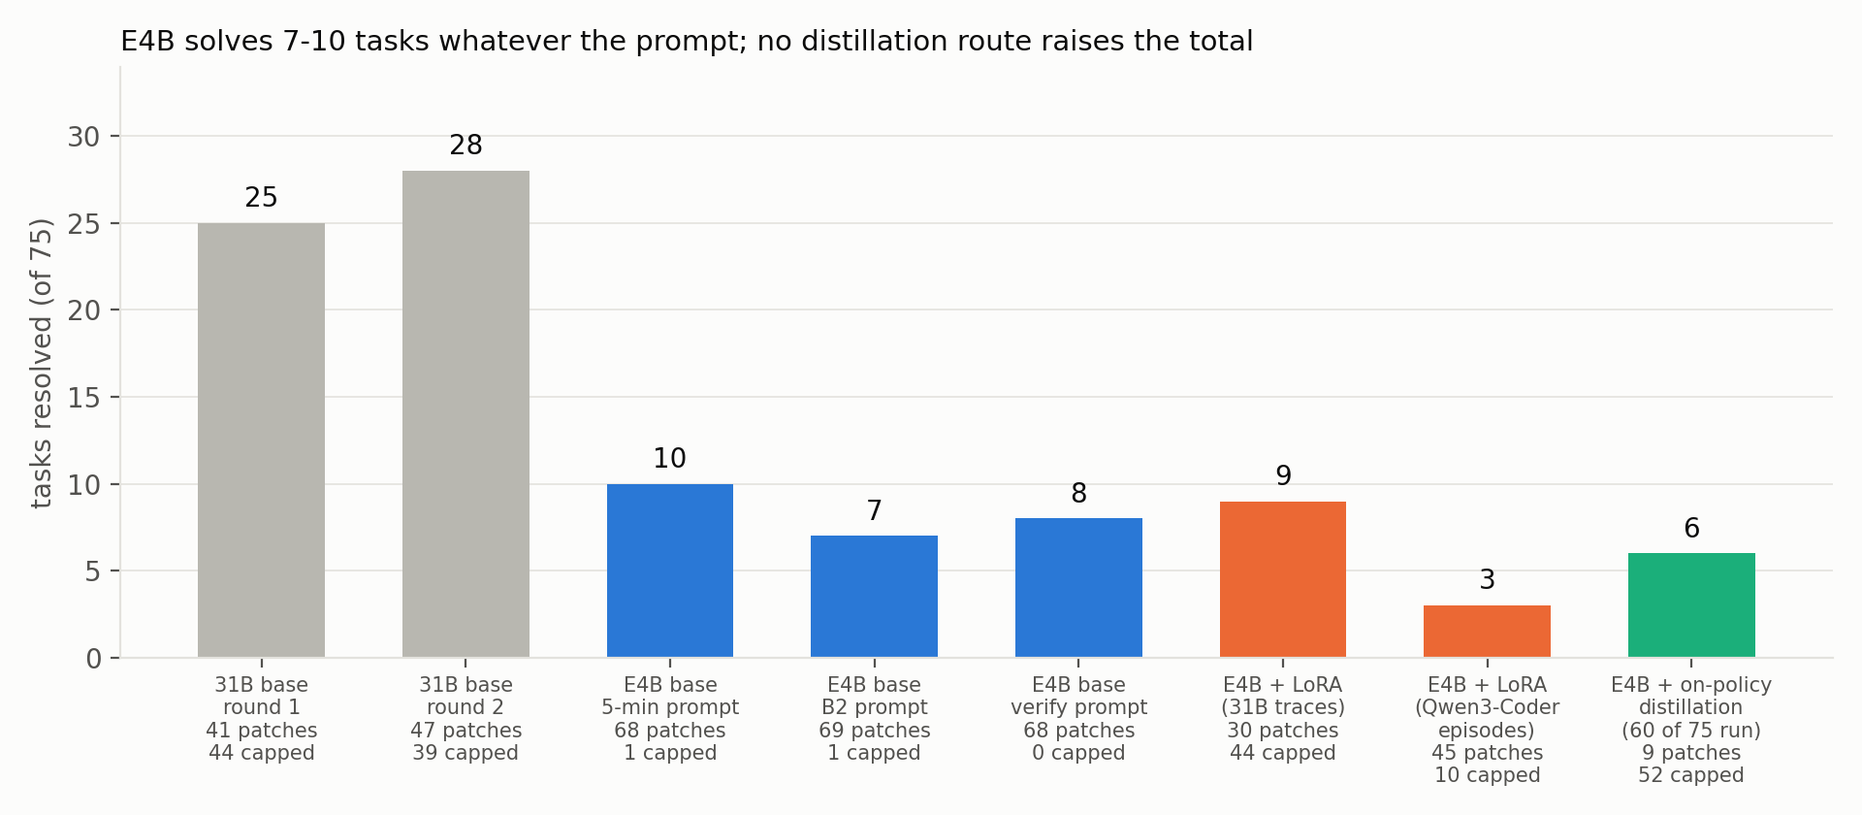
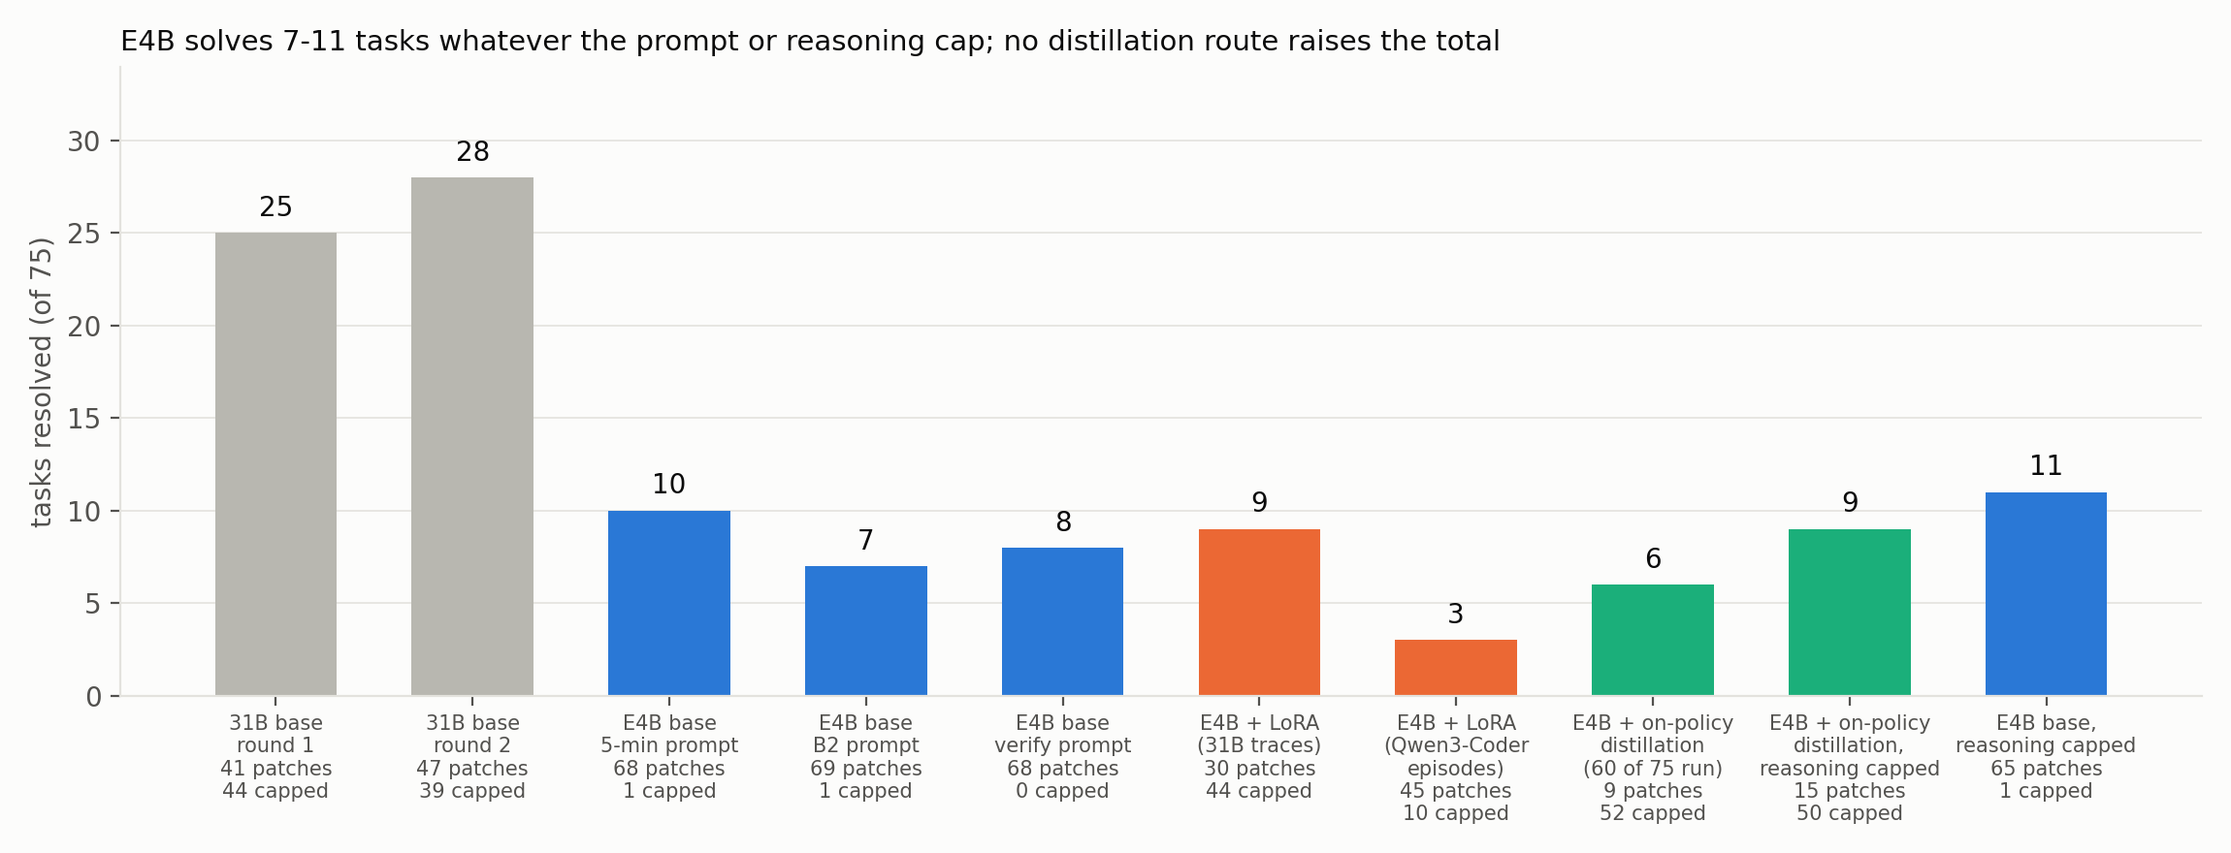
G22 result: capped reasoning restores speed but not results (9/75, 50 capped vs base 11/75, 1 capped); distillation imported the teacher's self-revision style ('Wait' 31x). Paper: G22 in Section 8, abstract, findings, conclusion, Appendix A/B, Figure 6

Changed region(s): [[0.0, 0.1548, 0.9688, 0.9595], [0.0312, 0.031, 0.6875, 0.0619], [0.0312, 0.1548, 0.0938, 0.1857]]

diff --git a/scripts/paper/make_figures_2.py b/scripts/paper/make_figures_2.py
@@ -87,8 +87,12 @@ bars.append(("E4B + LoRA" + NL + "(Qwen3-Coder" + NL + "episodes)", R(D / "g18_r
 _g21 = D / "g21_run1/g21/e1/task_results.jsonl"            # on-policy distillation; added once its results are downloaded
 if _g21.exists():
     bars.append(("E4B + on-policy" + NL + "distillation" + NL + "(60 of 75 run)", R(_g21), AQUA))   # watchdog stopped the round at 60 tasks
+_g22 = D / "g22_run1/g22"                                      # G22: reasoning capped at 512 tokens, adapter and base control
+if (_g22 / "e1/task_results.jsonl").exists():
+    bars.append(("E4B + on-policy" + NL + "distillation," + NL + "reasoning capped", R(_g22 / "e1/task_results.jsonl"), AQUA))
+    bars.append(("E4B base," + NL + "reasoning capped", R(_g22 / "b512/task_results.jsonl"), BLUE))
 summ = []
-fig, ax = plt.subplots(figsize=(9.6, 4.2), dpi=200)
+fig, ax = plt.subplots(figsize=(11.5, 4.4), dpi=200)
 for i, (lab, rr, col) in enumerate(bars):
     rows = list(rr.values())
     res_n, pat, cap = sum(r["resolved"] for r in rows), sum(r.get("agent_patch_size", 0) > 0 for r in rows), sum(kind(r) == "C" for r in rows)
@@ -100,7 +104,7 @@ ax.set_ylabel("tasks resolved (of 75)")
 ax.set_ylim(0, 34)
 ax.yaxis.grid(True, color=GRID, linewidth=0.6)
 ax.set_axisbelow(True)
-ax.set_title("E4B solves 7-10 tasks whatever the prompt; no distillation route raises the total", loc="left", fontsize=10.5, color=INK)
+ax.set_title("E4B solves 7-11 tasks whatever the prompt or reasoning cap; no distillation route raises the total", loc="left", fontsize=10.5, color=INK)
 fig.tight_layout()
 fig.savefig(OUT / "fig6_small_model.png")
 plt.close(fig)

diff --git a/docs/paper/DRAFT.md b/docs/paper/DRAFT.md
@@ -5,7 +5,7 @@
 
 ## Abstract
 
-Can a 4-bit Gemma 4 agent that fixes real GitHub issues offline be improved by post-training on four 24 GB GPUs? We study this under the Gemma 4 Developer Agent Competition's rules: a fixed checkpoint, a sequential scorer with a 12-hour budget, and hidden tasks. Evaluation is dominated by noise and task bimodality: one agent bundle scored 0.17 and 0.13 on the public leaderboard, and 62 of 75 local tasks have the same outcome in four attempts. Time binds through budgets, not speed: a 2.1x faster model solves fewer tasks, and in the scorer's regime the 28-tool-call cap ends a third of attempts, yet raising it overran the 12 hours. With a pipeline for token-exact capture, long-sequence LoRA training and verified adapter serving, SFT and preference training on the model's own trajectories do not beat the 31B base (22-28 vs 25-28 of 75). For the small E4B model, imitating 31B successes or rewritten Qwen3-Coder trajectories does not help either, the latter because a hindsight leak made 92% of its edits fail; on-policy distillation, where the 31B grades every token of E4B's own rollouts, cut the divergence by two thirds but taught E4B to keep thinking, because closing the reasoning block is where the two models disagree most: 52 of 60 attempts hit the time cap. We release the code, a 171-task harness-verified pool and a pre-registered protocol.
+Can a 4-bit Gemma 4 agent that fixes real GitHub issues offline be improved by post-training on four 24 GB GPUs? We study this under the Gemma 4 Developer Agent Competition's rules: a fixed checkpoint, a sequential scorer with a 12-hour budget, and hidden tasks. Evaluation is dominated by noise and task bimodality: one agent bundle scored 0.17 and 0.13 on the public leaderboard, and 62 of 75 local tasks have the same outcome in four attempts. Time binds through budgets, not speed: a 2.1x faster model solves fewer tasks, and in the scorer's regime the 28-tool-call cap ends a third of attempts, yet raising it overran the 12 hours. With a pipeline for token-exact capture, long-sequence LoRA training and verified adapter serving, SFT and preference training on the model's own trajectories do not beat the 31B base (22-28 vs 25-28 of 75). For the small E4B model, imitating 31B successes or rewritten Qwen3-Coder trajectories does not help either, the latter because a hindsight leak made 92% of its edits fail; on-policy distillation, where the 31B grades every token of E4B's own rollouts, cut the divergence by two thirds but imported the teacher's self-revising deliberation: 52 of 60 attempts hit the time cap, and capping the reasoning restored speed but not results. We release the code, a 171-task harness-verified pool and a pre-registered protocol.
 
 ## 1. Introduction
 
@@ -16,7 +16,7 @@ The competition asks for an autonomous coding agent that runs offline on everyda
 2. *Budgets, not speed, decide outcomes.* Faster decoding and shorter thinking do not convert failures; in sequential scoring the tool-call cap binds and also governs total runtime (Section 4).
 3. *LoRA imitation and preference training of the 31B model are nulls* even on 54 unseen repositories, and adapters cost ~10% decode speed (Sections 5-6).
 4. *Harness-verified tasks* need the scorer's own sandbox conventions; we build 171 from SWE-rebench (Section 7).
-5. *Distilling into the small model:* sequence imitation shifts behaviour without adding skill, trajectory rewriting must not leak the answer, and token-level on-policy distillation copies the teacher's thinking length along with its token choices, which under a time budget is a loss (Section 8).
+5. *Distilling into the small model:* sequence imitation shifts behaviour without adding skill, trajectory rewriting must not leak the answer, and token-level on-policy distillation imports the teacher's deliberation style along with its token choices, which under a time budget is a loss even with reasoning capped (Section 8).
 
 Code (Apache-2.0): https://github.com/JayGupta2003/gemma4-swe-agent-posttraining; competition data are not redistributed.
 
@@ -91,7 +91,7 @@ E4B (8B parameters, 4-bit) is the model that fits on a laptop, and the competiti
 
 *On-policy distillation.* Following GKD [11] and MiniLLM [12], the student generates and the teacher grades: the unmodified E4B ran the 171 pool tasks (25 resolved; 244 context segments, 2.93M tokens), then the 31B scored every token of those contexts in one prefill each through vLLM's prompt log-probabilities (top 8; memory scales with chunk length x vocabulary, so 2,048-token chunks failed and 512 worked, 48 minutes). The 31B's top choice agrees with the student's token 82% of the time: a dense signal that needs no task success. The loss is the exact reverse KL between student and teacher coarse-grained to the teacher's top 8 tokens plus one "rest of vocabulary" bucket (known, because the top-8 log-probabilities are over the full vocabulary), on 712k student tokens. Rule written before the run: >= 15/75 with >= 55 patches is a candidate, <= 11 null, more than 20 capped attempts a failure.
 
-Training ran 122 steps (2.6 h); the loss fell from 0.60 (first 5 steps) to 0.19 (last 10), and the adapter passed the activity and smoke gates. The 5-hour watchdog stopped the evaluation after 60 of 75 tasks, and on those 60 the run is a **failure**: 52 attempts hit the 8-minute cap (base: at most 1), 9 patches (base 54-55), 6 resolved (base 5-8 on the same tasks). The capture shows why. Reasoning per call grew from 1,405 to 3,289 characters and completions from 490 to 1,315 tokens (49 hit the 8,192-token limit, none before), so a call took 26 s instead of 7.5 s and edit calls fell from about 2 to 0.3 per task. The training data predicted it: over all student tokens the 31B gives E4B's token probability 0.79 on average, but at the 1,540 places where E4B closes its reasoning only 0.49, and under 0.1 at 38% of them. The 31B, which thinks longer, disagrees with the student most about when to stop thinking, and reverse KL moves exactly that decision. Next steps, with rules fixed before any result (Appendix B): the same adapter with reasoning capped at 512 tokens against the base at that cap (running at submission), then retraining with the reasoning-close token masked out of the loss.
+Training ran 122 steps (2.6 h; loss 0.60 over the first 5 steps, 0.19 over the last 10) and the adapter passed the activity and smoke gates. The watchdog stopped the evaluation after 60 of 75 tasks, and the run is a **failure**: 52 attempts hit the 8-minute cap (base: at most 1), 9 patches (base 54-55), 6 resolved (base 5-8 on the same tasks). Reasoning per call grew from 1,405 to 3,289 characters, so a call took 26 s instead of 7.5 s. A pre-registered follow-up capped reasoning at 512 tokens for the adapter and, as a control, the base: time per call recovered (9.2 vs 6.4 s), the outcome did not (9 vs 11 of 75 resolved, 50 vs 1 capped, 41 vs 240 edits). Forced out of its reasoning, the adapter keeps deliberating in its visible output ("Wait, I think I misunderstood..." until the 4,096-token limit). The training data shows the source: on E4B's own contexts the 31B expects "Wait" 31 times as often as E4B writes it (63.5 vs 2.0 per 10k tokens), and gives E4B's decision to end its reasoning 0.49 probability against 0.79 for an average token. Reverse KL imported the teacher's self-revising style, and the student overshot it (57-72 "Wait" per 10k characters; the 31B writes 11) without the 31B's ability to resolve its doubts. Next steps: Appendix B.
 
 ![Figure 6](figures/fig6_small_model.png)
 *Figure 6. Tasks resolved of 75 by the 31B and the E4B, with patches written and capped attempts under each bar.*
@@ -110,7 +110,7 @@ One model family; three repositories dominate the 75 local tasks; single rounds 
 
 ## 12. Conclusion and release
 
-Under a sequential 12-hour budget, noise and task bimodality set the ceiling of evaluation, per-task budgets bind the whole run, and LoRA imitation of typical successes adds nothing while costing speed. For the small model, sequence imitation either shifts behaviour without adding skill or, if episodes leak the answer, teaches unrealisable shortcuts, and token-level distillation from a longer-thinking teacher transfers its thinking length, which the clock punishes. What transfers is the machinery and the protocol: exact capture, memory-exact training, adapter verification, a verified-task pipeline, token-level teacher scoring and pre-registered decisions. Code, task IDs (not task text), notebook generators and the full experiment log: https://github.com/JayGupta2003/gemma4-swe-agent-posttraining (Apache-2.0).
+Under a sequential 12-hour budget, noise and task bimodality set the ceiling of evaluation, per-task budgets bind the whole run, and LoRA imitation of typical successes adds nothing while costing speed. For the small model, sequence imitation either shifts behaviour without adding skill or, if episodes leak the answer, teaches unrealisable shortcuts, and token-level distillation from a larger teacher imports its deliberation style, which the clock punishes even with reasoning capped. What transfers is the machinery and the protocol: exact capture, memory-exact training, adapter verification, a verified-task pipeline, token-level teacher scoring and pre-registered decisions. Code, task IDs (not task text), notebook generators and the full experiment log: https://github.com/JayGupta2003/gemma4-swe-agent-posttraining (Apache-2.0).
 
 ## References
 [1] Jimenez et al. SWE-bench: Can Language Models Resolve Real-World GitHub Issues? ICLR 2024. arXiv:2310.06770.
@@ -150,15 +150,15 @@ All GPU runs: Kaggle notebooks on 4x L4, offline; quota hours = 2x wall hours. N
 | G19 | B2 sequential (scorer regime) | 24 tasks | concurrency 1 | 4.6 | - | 9/24; call cap ends 9 |
 | G20/G20b | E4B pool rollouts + 31B scoring | 171 tasks; 244 segments | prompt_logprobs top-8, 512-token chunks | 4.8 | - | 25/171; 2.93M tokens scored |
 | G21 | E4B on-policy distillation | 244 segments, 712k loss tokens | coarse top-8 reverse KL, lr 1e-4, 1 epoch, 122 steps | ~10 | >= 15/75 candidate, 12-14 weak, <= 11 null, > 20 capped failure | failure: 6/60 (watchdog at 60 tasks), 52 capped, 9 patches; KL 0.60 -> 0.19 |
-| G22 | G21 adapter, reasoning capped; base control | 75 tasks x 2 arms | thinking budget 512, output cap 4096, no training | ~9 | >= 12/75, <= 8 capped and >= base@512 + 3 signal; <= 11 null; > 20 capped failure | running at submission |
+| G22 | G21 adapter, reasoning capped; base control | 75 tasks x 2 arms | thinking budget 512, output cap 4096, no training | ~9 | >= 12/75, <= 8 capped and >= base@512 + 3 signal; <= 11 null; > 20 capped failure | failure: 9/75, 50 capped, 15 patches; base at the same cap 11/75, 1 capped, 65 patches |
 
 ## Appendix B. Next steps (supplementary)
 
-Each step has its decision rule committed to the repository before its result (`docs/STRATEGY.md`); a step runs only if the previous one passes.
+Decision rules are committed to the repository before each result (`docs/STRATEGY.md`).
 
-1. **Is there skill under the length? (G22, running at submission.)** The unchanged G21 adapter served with `thinking_budget` 512 (from 4,096) and `max_output_tokens` 4,096 (from 8,192), and the base E4B at the same cap as a control, on the same 75 tasks in the same order. The cap binds only the lengthened reasoning: the base E4B reasons ~350 tokens per call, and a 1,024-token budget was enforced in G12. Signal: adapter >= 12/75 with <= 8 capped and >= 3 more than the base at the cap. Null: <= 11, or within 2 of the base. Failure: > 20 capped even at the cap, i.e. the shift is not confined to the reasoning block.
-2. **Distil the content, not the length.** Retrain on the same 244 segments with the 1,540 reasoning-close positions (`<channel|>`) removed from the loss; everything else as G21 (~10 quota h, same rule: >= 15/75 with >= 55 patches and <= 8 capped is a candidate). Why this target: 79% of the loss tokens are reasoning, where the 31B gives the student's token 0.76 probability on average, against 0.94 on action tokens (tool names, arguments, edit text), so most of the teacher's signal is about how E4B reasons, and the one token that controls length is where they disagree most. Alternatives if masking is not enough: a length-matched teacher (the 31B scoring with its own reasoning budget set to E4B's) or an explicit length penalty.
-3. **Confirm before submitting.** A candidate gets a second evaluation round (paired noise is +-3 tasks), then an E4B leaderboard submission for the small-model prize.
-4. **Iterate on-policy.** As in GKD [11]: new rollouts from the improved adapter on the 171-task pool, re-scored by the 31B, retrained; each iteration is ~15 quota h (rollouts, scoring, training, evaluation).
+1. **Done: is there skill under the length? (G22.)** The unchanged G21 adapter with `thinking_budget` 512 (from 4,096) and `max_output_tokens` 4,096 (from 8,192), and the base E4B at the same cap, on the same 75 tasks in the same order. Rule: signal if >= 12/75 with <= 8 capped and >= 3 above the base at the cap; failure if > 20 capped even at the cap. Result: **failure** (9/75, 50 capped; base 11/75, 1 capped). Time per call recovered (9.2 vs 6.4 s), but the adapter made 2,996 main-agent calls against 1,074, of which 41 edits against 240, 98 calls ran into the output limit, and 9 attempts ended without submitting.
+2. **Dropped: mask only the reasoning-close token.** Planned as step 2, but G22 shows the shift is not confined to when reasoning stops: the student also deliberates in its visible output. Tool choice is not where the models disagree either: when E4B chose `edit_file`, the 31B gave that choice 0.96 probability on average (`run_command` 0.99, `read_file` 0.72).
+3. **Next: separate what to do from how to think.** 79% of the loss tokens are reasoning, where the 31B gives the student's token 0.76 probability on average against 0.94 on action tokens (tool names, arguments, edit text). Candidate objective: the teacher's KL on action tokens only, plus a KL anchor to the frozen base E4B on reasoning tokens so its own deliberation style is kept (as reference-model penalties do in RL fine-tuning). Rule to fix before running: >= 15/75 with >= 55 patches and <= 8 capped is a candidate; "Wait" per 10k characters must stay within 2x of the base. About 10 quota h. Alternative: a teacher closer in style (the 12B), or penalising self-revision markers directly.
+4. **Then: confirm and iterate.** A candidate gets a second evaluation round (paired noise is +-3 tasks) before an E4B leaderboard submission, then on-policy iteration as in GKD [11]: rollouts from the improved adapter, re-scored by the 31B, retrained (~15 quota h per iteration).
 
-Not planned: forward KL or more epochs (both pull the length behaviour harder), and reinforcement learning with verifiable rewards, since one rollout pass over the 171-task pool takes ~3 h and RL needs dozens within a 30-hour weekly quota.
+Not planned: forward KL or more epochs (both pull the teacher's style harder), and reinforcement learning with verifiable rewards (one rollout pass over the 171-task pool takes ~3 h; RL needs dozens within a 30-hour weekly quota). The base E4B at the 512-token cap (11/75, 1 capped, 126 s per task) is within noise of the uncapped base (7-10) and is not evidence for changing the E4B submission.

diff --git a/docs/STRATEGY.md b/docs/STRATEGY.md
@@ -128,6 +128,7 @@
     - NULL: adapter resolved <= 11, or < base@512 + 3 -> no step 2; the G21 adapter learned length, not skill. E4B final stays the base bundle.
     - FAILURE: adapter capped > 20 even at 512 -> the shift is not confined to the reasoning block (content loops); report and stop.
     - If the control does not finish, judge on the absolute thresholds against the historical base (7, 10, 8 of 75 at budget 4096).
+  - **G22 RESULT (2026-11-11): FAILURE under the pre-registered rule; step 2 (mask the reasoning-close token) DROPPED.** Gates all passed (adapter sha matches G21, adapter active, requests carry thinking_token_budget 512 / max_completion_tokens 4096; control used the base model name). Adapter @512: **9/75 resolved, 15 patches, 50 capped**, 450 s/task, 4 call-budget, 9 ended without submit_patch. Base @512 (control): **11/75, 65 patches, 1 capped**, 126 s/task. Per call the cap worked (main agent 9.2 s vs 6.4 s, reasoning ~1.1k vs ~0.9k chars) but the adapter made 2,996 main calls vs 1,074, edit_file 41 vs 240, 98 output-limit finishes vs 6: forced out of its reasoning it keeps deliberating in visible content ("Wait, I think I misunderstood..." loops). **Mechanism: imported self-revision style.** "Wait" per 10k chars: base E4B 0.5-0.7, 31B 10.7 (G2 capture), G21 72, G22 58. In the OPD data the 31B expects "Wait" (ids 20470, 29202) at 63.5 per 10k student tokens vs the student's 2.0 (31x). Tool choice is not the disagreement: teacher p(student's tool) edit_file 0.96, run_command 0.99, read_file 0.72. Reasoning tokens are 79% of loss tokens (teacher p 0.76) vs action tokens 0.94. Next idea (not run, Appendix B of the paper): teacher KL on action tokens only + KL anchor to the frozen base E4B on reasoning tokens; rule would add "Wait per 10k chars within 2x of base". E4B final stays the base bundle (base@512 11/75 is within noise of 7-10). Paper updated (Section 8, abstract, Findings 5, conclusion, Appendix A/B, Figure 6 with both G22 bars), body 2,966 words incl. title.
 - **RPO trainer written and tested (2026-10-27)**: `scripts/g15/train_rpo.py` + `scripts/g15/test_train_rpo.py` (7 tests, 64 s on the local 5070 with a tiny random Gemma 4, `.venv_g1`). Loss per pair: -log sigmoid(beta * [(log p_theta(y_w) - log p_ref(y_w)) - (log p_theta(y_l) - log p_ref(y_l))]) + alpha * NLL(y_w)/n_loss_tokens(y_w); log p = sum over the model-generated tokens; reference = same bf16 model with the adapter disabled, cached once per pair side (`ref_logps.json`, restart-safe); **two-pass gradient** (no-grad forwards give the margin and the weight w = beta * sigmoid(-m), then one forward+backward per trajectory with the scalar coefficient), so only one autograd graph is alive. Tests: the two-pass gradient equals the plain autograd gradient of the full loss (cosine > 0.999, relative error < 3%) for the plain model, with length normalisation, and for the per-layer-input model with HF gradient checkpointing; a fresh adapter gives margin 0 and loss ln 2; a small step along the negative gradient raises the margin; an end-to-end overfit run (4 pairs, 6 epochs) raises the margin from 0 to > 0.5, caches the reference log-probs, saves the adapter and checkpoint; `RPO_KINDS` filters pair kinds. Env: RPO_BETA 0.1, RPO_ALPHA 1.0, RPO_NORM 0, RPO_ACC 2, RPO_LR 2e-5, RPO_EPOCHS 2, RPO_WARMUP 2, RPO_HF_GC, RPO_MAXMEM, RPO_CKPT_EVERY. **Real pairs checked**: 57 pairs, 8.9 MB, all spans valid, max 16,324 tokens; chosen sequences are shorter than rejected (median 11.2k vs 14.0k tokens, 2,488 vs 3,120 loss tokens), so the summed log-ratio has a length bias; `RPO_NORM=1` (per-token log-ratios) is the alternative, to be decided before launch. **Not yet written**: the Kaggle notebook (derive from `scripts/g11/make_g11_notebook.py`: stage checkpoint, `train_rpo.py`, adapter export with `make_adapters`, wiring check, vLLM with the adapter, adapter-effect gate, smoke gate, 75-task evaluation) and the pairs dataset upload; both need the quota refresh (2026-10-31) to run (~15 q-h training + ~4.5 q-h evaluation).
 - **G16 RESULT (31B, pool round p3 = p2 configuration, T=1.0)**: resolved 52 (p1 55, p2 55), finished-wrong 29, capped 90, mean 266 s; config gate and smoke gate passed. Quota: 2.82 h left, refresh 2026-10-31T00:00 UTC. **Three rounds on 171 tasks**: never solved 100, solved once 14, twice 23, always 34; **mixed tasks 37**; flips p3-p2 25, p3-p1 23.
 - **G13b gate (PREFERENCE_RUN.md: >= 40 pairs after the pair rules) from `build_pairs.py` on p1+p2+p3 (competition ids excluded)**: 513 attempts (S 162, F 82, C 269), 63 unusable final segments (malformed history or over 16,384 tokens: 15 in p1, 18 in p2, 30 in p3); **34 main solved-vs-failed pairs (30 solved-vs-capped, 4 solved-vs-wrong) + 23 within-solved pairs (faster by >= 30%) = 57 pairs over 51 tasks, 1.35 M tokens, median 24.1k tokens per pair.** Reading the gate as written (pairs after the rules, which include the within-S clause that exists exactly for the < 40 case) it PASSES (57 >= 40); the core solved-vs-failed set alone is 34 (< 40; 44 if a single success may be reused against two failures, 10 such tasks). With three rounds a task can yield at most one distinct pair (2 pairs would need 2 successes and 2 failures in 3 attempts), so the 2-pair cap never binds. Honest caveats: the signal is 93% (53 of 57) solved-vs-capped or solved-vs-faster-solved (teaches finishing quickly), only 4 pairs say 'wrong patch'; E4B showed that SFT on such traces can change the behaviour distribution (more exploration, empty-patch loops) instead of capability, so an adapter must be checked for patches written and capped, and the harness must be given a cap on LLM calls. Output `data_extra/pairs_p1p2p3/` (gitignored).

diff --git a/docs/paper/tables_2.md b/docs/paper/tables_2.md
@@ -10,6 +10,8 @@
 | E4B + LoRA (31B traces) | 9 | 30 | 44 | 393 | 33 |
 | E4B + LoRA (Qwen3-Coder episodes) | 3 | 45 | 10 | 137 | 9 |
 | E4B + on-policy distillation (60 of 75 run) | 6 | 9 | 52 | 478 | 15 |
+| E4B + on-policy distillation, reasoning capped | 9 | 15 | 50 | 450 | 37 |
+| E4B base, reasoning capped | 11 | 65 | 1 | 126 | 13 |
 
 E4B base rounds: union 14 tasks; solved in at least 2 of the 3 rounds: 6; all 14 are also solved by the 31B in some round: True.
 
